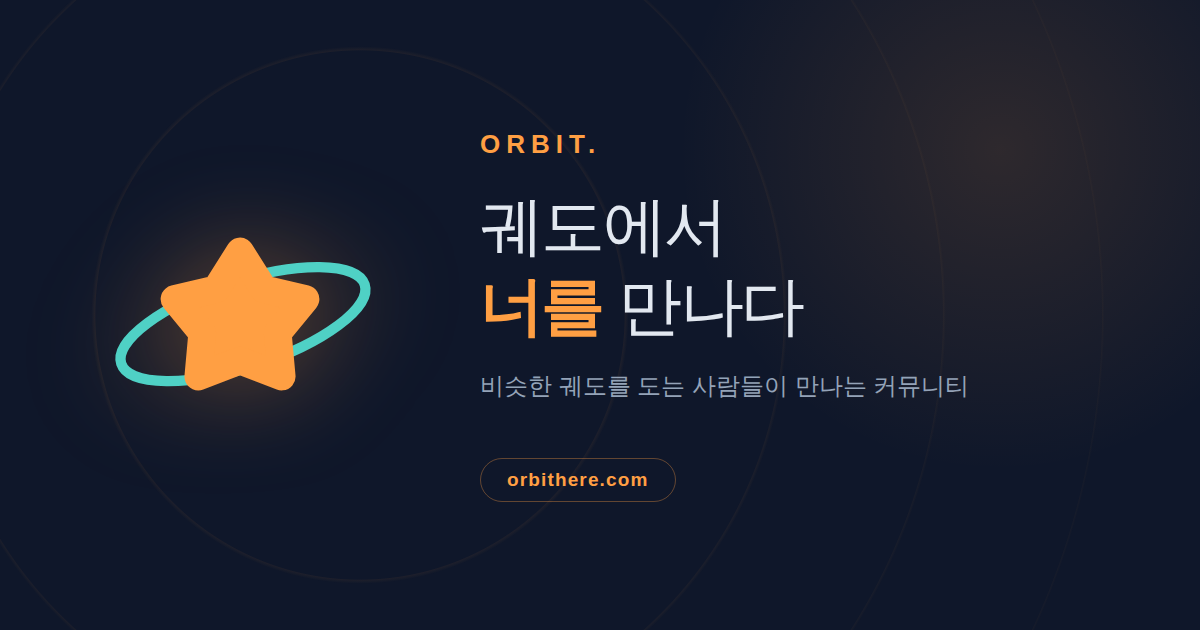
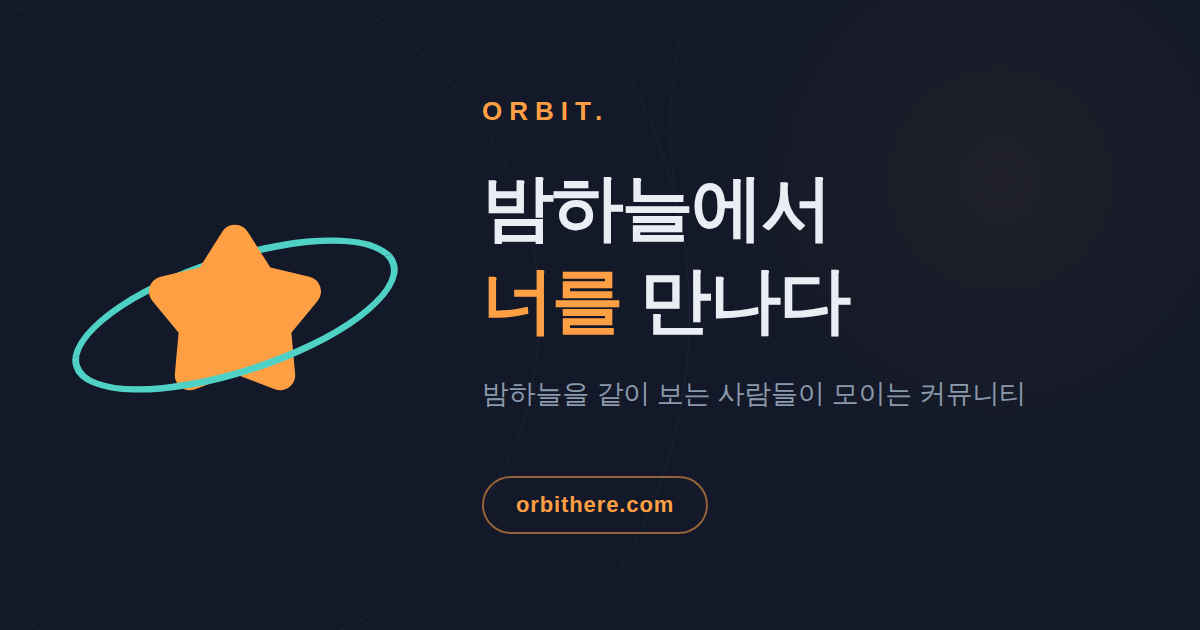
방향 전환 마무리: index 카피 A안, 후기 궤도 동선, live 폴링, 방문 위젯
- index.html: 제목·메타·h1을 밤하늘 관측 주제로 교체 (부록 A-1 적극안).
  브랜드 문구 '궤도에서 너를 만나다'는 subtitle로 내림
- images/og.png: 새 카피에 맞춰 재제작 (레이아웃은 기존과 동일)
- sky.html CTA → lounge.html#report 로 후기 궤도 직행
- lounge.html: 첫 진입 기본 채널을 관측 후기로 고정, 해시(#report 등)로
  채널 선택 진입 지원, 나머지 채널 탭은 시각적으로 한 톤 낮춤
- lounge.html: live 채널만 30초 폴링 — '실시간 하늘'이라는 이름을 지키게.
  숨긴 탭에서는 쉬고, 돌아오면 즉시 따라잡음
- visits.js + migration_009_visits.sql: 하루 단위 방문 집계와 위젯.
  main은 사이드바 아래칸, sky·lounge는 좌하단 부동 카드, 모바일에서는 접힘.
  마이그레이션 전이거나 요청 실패 시 위젯은 그려지지 않음

Claude-Session: https://claude.ai/code/session_01LAAsGhYdV9ifWGNjyvJjS3

diff --git a/lounge.html b/lounge.html
@@ -54,6 +54,10 @@
         .orbit-tab:hover { border-color: rgba(255,159,67,0.45); color: var(--accent); }
         .orbit-tab.on { background: var(--accent); border-color: var(--accent); color: #0F172A; font-weight: 700; }
         .orbit-tab .ic { margin-right: 1px; }
+        /* 유성우 기간에는 후기 궤도가 주인공 — 나머지 채널은 남기되 한 톤 낮춘다.
+           빈 채널 네 개가 똑같이 크게 보이면 "빈 방 4개"로 읽힌다. */
+        .orbit-tab.minor { opacity: 0.6; }
+        .orbit-tab.minor:hover, .orbit-tab.minor.on { opacity: 1; }
 
         /* 채널 헤더 — 선택한 궤도의 장소감 */
         .channel-header {
@@ -397,6 +401,7 @@
     </style>
     <script>if(new URLSearchParams(location.search).get('embed'))document.documentElement.classList.add('embed');</script>
     <script src="effects.js" defer></script>
+    <script src="visits.js" defer></script>
 </head>
 <body>
     <div class="bg-glow"></div>
@@ -459,9 +464,9 @@
     // (supabase/migration_008_sky_orbits.sql 참고) 안 그러면 글 작성이 23514로 막힌다.
     var ORBIT_LIST = [
         { id:'report', icon:'📝', label:'관측 후기',   desc:'어젯밤 뭘 보셨나요 — 관측 기록과 후기를 남기는 궤도예요.' },
-        { id:'gear',   icon:'🔭', label:'장비',        desc:'망원경·쌍안경·적도의·카메라 — 장비 이야기를 나누는 궤도예요.' },
-        { id:'live',   icon:'🌌', label:'실시간 하늘', desc:'지금 하늘이 어떤가요 — 구름·시상·오로라 속보를 바로 올리는 궤도예요.' },
-        { id:'ask',    icon:'❓', label:'질문',        desc:'뭐부터 봐야 할지, 저건 뭔지 — 무엇이든 물어보는 궤도예요.' }
+        { id:'gear',   icon:'🔭', label:'장비',        desc:'망원경·쌍안경·적도의·카메라 — 장비 이야기를 나누는 궤도예요.', minor:true },
+        { id:'live',   icon:'🌌', label:'실시간 하늘', desc:'지금 하늘이 어떤가요 — 구름·시상·오로라 속보를 바로 올리는 궤도예요.', minor:true },
+        { id:'ask',    icon:'❓', label:'질문',        desc:'뭐부터 봐야 할지, 저건 뭔지 — 무엇이든 물어보는 궤도예요.', minor:true }
     ];
     var ALL_ORBIT = { id:'all', icon:'🌠', label:'전체', desc:'모든 궤도의 궤적이 한데 흐르는 곳이에요.' };
     // 호환용 파생 맵 / 조회 헬퍼
@@ -477,7 +482,16 @@
     function avatarOf(nick){ return EMOJIS[nick.charCodeAt(0) % EMOJIS.length]; }
 
     var nickname = localStorage.getItem('orbit_nickname');
-    var currentOrbit = 'all';
+    // 첫 진입 기본 채널은 후기 궤도 — 관측 → 후기가 이 사이트의 핵심 동선이고,
+    // 글이 없는 시기에는 한 채널에 모여 있어야 살아 있는 곳으로 보인다.
+    // sky.html의 CTA는 #report 해시를 달고 들어온다. (#all로 전체 보기도 가능)
+    function orbitFromHash(){
+        var h = (location.hash || '').slice(1);
+        if(h === 'all') return 'all';
+        for(var i = 0; i < ORBIT_LIST.length; i++){ if(ORBIT_LIST[i].id === h) return h; }
+        return null;
+    }
+    var currentOrbit = orbitFromHash() || 'report';
     var EMBED = document.documentElement.classList.contains('embed');
 
     // 관리자 모드. 로그인만으로는 켜지지 않고 admins 테이블에 등록된 계정이어야 한다.
@@ -1056,7 +1070,7 @@
         var html = '<button class="orbit-tab' + (currentOrbit==='all'?' on':'') +
                    '" data-orbit="all"><span class="ic">' + ALL_ORBIT.icon + '</span> 전체</button>';
         ORBIT_LIST.forEach(function(o){
-            html += '<button class="orbit-tab' + (currentOrbit===o.id?' on':'') +
+            html += '<button class="orbit-tab' + (currentOrbit===o.id?' on':'') + (o.minor?' minor':'') +
                     '" data-orbit="' + o.id + '"><span class="ic">' + o.icon + '</span> ' + escapeHtml(o.label) + '</button>';
         });
         document.getElementById('orbitTabs').innerHTML = html;
@@ -1092,16 +1106,48 @@
         });
     });
 
-    document.getElementById('orbitTabs').addEventListener('click', function(e){
-        var tab = e.target.closest('.orbit-tab');
-        if(!tab) return;
-        document.querySelectorAll('.orbit-tab').forEach(function(t){ t.classList.remove('on'); });
-        tab.classList.add('on');
-        currentOrbit = tab.getAttribute('data-orbit');
+    function selectOrbit(id){
+        currentOrbit = id;
+        document.querySelectorAll('.orbit-tab').forEach(function(t){
+            t.classList.toggle('on', t.getAttribute('data-orbit') === id);
+        });
         renderChannelHeader();
         var sel = document.getElementById('orbitSelect');
         if(sel && currentOrbit !== 'all') sel.value = currentOrbit; // 보던 방으로 글쓰기 기본값 맞춤
+        syncLivePoll();
         loadPosts();
+    }
+
+    document.getElementById('orbitTabs').addEventListener('click', function(e){
+        var tab = e.target.closest('.orbit-tab');
+        if(!tab) return;
+        selectOrbit(tab.getAttribute('data-orbit'));
+    });
+
+    // 이미 열린 광장에서 #report 같은 해시 링크를 눌러도 채널이 따라가게
+    window.addEventListener('hashchange', function(){
+        var o = orbitFromHash();
+        if(o && o !== currentOrbit) selectOrbit(o);
+    });
+
+    // ===== live 채널 30초 폴링 =====
+    // 이름이 "실시간 하늘"이니 이 채널만은 새로고침 없이 새 궤적이 나타나야 한다.
+    // 다른 채널까지 폴링하면 요청만 늘어서, 기대를 만들어 둔 채널만 지킨다.
+    var livePoll = null;
+    function syncLivePoll(){
+        var want = currentOrbit === 'live';
+        if(want && !livePoll){
+            livePoll = setInterval(function(){
+                if(!document.hidden) loadPosts({ quiet: true });   // 안 보는 탭에서는 쉰다
+            }, 30000);
+        } else if(!want && livePoll){
+            clearInterval(livePoll);
+            livePoll = null;
+        }
+    }
+    // 탭을 벗어났다 돌아오면 다음 폴링까지 기다리지 않고 바로 따라잡는다
+    document.addEventListener('visibilitychange', function(){
+        if(!document.hidden && currentOrbit === 'live') loadPosts({ quiet: true });
     });
 
     // ===== 관리자 확인 =====
@@ -1134,6 +1180,7 @@
     checkAdmin().then(function(ok){
         isAdmin = ok;
         if(ok) showAdminBadge();
+        syncLivePoll();   // 해시로 live에 바로 들어온 경우
         loadPosts();
     });
     </script>

diff --git a/visits.js b/visits.js
@@ -1,0 +1,62 @@
+// ============================================================
+// 방문 집계 + 위젯
+// ------------------------------------------------------------
+// Supabase RPC(record_visit) 한 번으로 오늘/누적 방문 수를 받아온다.
+// supabase-js 없이 REST를 직접 부르므로 이 파일 하나로 어느 페이지에서도 돈다.
+// 서버 쪽 준비물: supabase/migration_009_visits.sql
+//
+// - 같은 기기는 하루 한 번만 +1 (localStorage 날짜 도장 — 새로고침으로 안 부푼다)
+// - 임베드(iframe) 화면은 부모 페이지가 이미 세므로 아무것도 하지 않는다
+// - <script src="visits.js" data-count-only> 로 넣으면 세기만 하고 위젯은 안 그린다
+//   (index.html — 대문은 아무 곳이나 누르면 입장이라 위젯이 클릭을 가로챈다)
+// - 마이그레이션 전이거나 요청이 실패하면 위젯을 그리지 않는다.
+//   깨진 위젯보다 없는 위젯이 낫다.
+// ============================================================
+(function(){
+    if(document.documentElement.classList.contains('embed')) return;
+
+    var SB_URL = 'https://unwxpuvfqyjhgrcrmuhu.supabase.co';
+    var SB_KEY = 'sb_publishable_KnyriHKUHNWw0QyIAXBmOA_0KaHPcXI'; // 공개용 키 (publishable)
+    var countOnly = document.currentScript && document.currentScript.hasAttribute('data-count-only');
+
+    // sv-SE 로케일은 YYYY-MM-DD 형식이라 날짜 도장으로 쓰기 좋다 (기기 시간대 기준)
+    var KEY = 'orbit_visit_day';
+    var today = new Date().toLocaleDateString('sv-SE');
+    var counted = localStorage.getItem(KEY) === today;
+
+    fetch(SB_URL + '/rest/v1/rpc/record_visit', {
+        method: 'POST',
+        headers: {
+            'apikey': SB_KEY,
+            'Authorization': 'Bearer ' + SB_KEY,
+            'Content-Type': 'application/json'
+        },
+        body: JSON.stringify({ p_count: !counted })
+    }).then(function(r){
+        if(!r.ok) throw new Error('record_visit ' + r.status);
+        return r.json();
+    }).then(function(data){
+        var row = Array.isArray(data) ? data[0] : data;
+        if(!row) return;
+        if(!counted) localStorage.setItem(KEY, today);
+        if(!countOnly) render(Number(row.today) || 0, Number(row.total) || 0);
+    }).catch(function(){ /* 위젯은 장식이다 — 실패해도 페이지는 멀쩡해야 한다 */ });
+
+    function render(todayN, totalN){
+        var el = document.createElement('aside');
+        el.className = 'visit-widget';
+        el.setAttribute('aria-label', '방문 집계');
+        el.innerHTML =
+            '<span class="vw-dot" aria-hidden="true"></span>' +
+            '<div class="vw-body">' +
+            '<div class="vw-cap">오늘 이 궤도를 지난 사람</div>' +
+            '<div class="vw-num">' + todayN.toLocaleString('ko-KR') +
+            '<span class="vw-total">누적 ' + totalN.toLocaleString('ko-KR') + '</span></div>' +
+            '</div>';
+        // main.html처럼 사이드바가 있으면 그 아래칸에 넣고("좌측 한켠"),
+        // 없으면 화면 왼쪽 아래에 떠 있는 작은 카드로 둔다.
+        var side = document.querySelector('.sidebar');
+        if(side){ el.classList.add('in-sidebar'); side.appendChild(el); }
+        else { el.classList.add('floating'); document.body.appendChild(el); }
+    }
+})();

diff --git a/index.html b/index.html
@@ -3,8 +3,8 @@
 <head>
     <meta charset="UTF-8">
     <meta name="viewport" content="width=device-width, initial-scale=1.0">
-    <title>Orbit — 궤도에서 너를 만나다</title>
-    <meta name="description" content="비슷한 궤도를 도는 사람들이 만나는 커뮤니티, 오빗(Orbit).">
+    <title>Orbit — 밤하늘을 같이 보는 사람들 | 유성우 · 관측 커뮤니티</title>
+    <meta name="description" content="다음 유성우는 언제인지, 그날 달빛은 어떨지. 밤하늘 달력과 관측 후기를 나누는 한국어 커뮤니티, 오빗(Orbit).">
     <meta name="theme-color" content="#0F172A">
     <link rel="canonical" href="https://orbithere.com/">
     <link rel="icon" href="/favicon.ico" sizes="any">
@@ -15,8 +15,8 @@
     <link rel="manifest" href="/site.webmanifest">
     <meta property="og:type" content="website">
     <meta property="og:site_name" content="Orbit">
-    <meta property="og:title" content="Orbit — 궤도에서 너를 만나다">
-    <meta property="og:description" content="비슷한 궤도를 도는 사람들이 만나는 커뮤니티, 오빗(Orbit).">
+    <meta property="og:title" content="Orbit — 밤하늘을 같이 보는 사람들">
+    <meta property="og:description" content="다음 천문 현상까지 남은 시간과 관측 조건, 그리고 같은 하늘을 본 사람들의 후기.">
     <meta property="og:image" content="https://orbithere.com/images/og.png">
     <meta property="og:image:width" content="1200">
     <meta property="og:image:height" content="630">
@@ -271,6 +271,8 @@
 
     </style>
     <script src="effects.js" defer></script>
+    <!-- 대문은 아무 곳이나 누르면 입장이라 위젯 없이 방문 수만 센다 -->
+    <script src="visits.js" defer data-count-only></script>
 </head>
 <body>
     <div class="starfield">
@@ -290,8 +292,8 @@
                 <div class="orbit-ring ring-front"></div>
             </div>
         </div>
-        <h1 class="title">궤도에서 <span class="highlight">너를</span> 만나다</h1>
-        <p class="subtitle">비슷한 궤도를 도는 사람들이 모이는 곳</p>
+        <h1 class="title">밤하늘에서 <span class="highlight">너를</span> 만나다</h1>
+        <p class="subtitle">궤도에서 너를 만나다 · 같은 하늘을 보는 사람들이 모이는 곳</p>
         <a class="click-hint" href="main.html">아무곳이나 클릭</a>
     </div>
 

diff --git a/orbit.css b/orbit.css
@@ -141,6 +141,48 @@ body {
 }
 
 /* ============================================================
+   방문 위젯 (visits.js가 만들어 붙인다)
+   ------------------------------------------------------------
+   main.html에서는 사이드바 아래칸(.in-sidebar),
+   sky·lounge 단독 페이지에서는 화면 왼쪽 아래(.floating)에 앉는다.
+   숫자는 본문 잉크 색으로 — 색은 살아있음을 표시하는 점 하나면 충분하다.
+   ============================================================ */
+.visit-widget {
+    display: flex; align-items: center; gap: 11px;
+    background: var(--card-bg);
+    border: 1px solid rgba(255,159,67,0.15);
+    border-radius: 14px; padding: 10px 15px 11px;
+    animation: vw-in 0.45s ease 0.15s both;
+}
+@keyframes vw-in { from { opacity: 0; transform: translateY(6px); } }
+.visit-widget.floating {
+    position: fixed; left: 18px; bottom: 18px; z-index: 30;
+    background: rgba(21,30,54,0.9); backdrop-filter: blur(10px);
+    box-shadow: 0 10px 28px rgba(0,0,0,0.35);
+}
+.visit-widget.in-sidebar { margin-top: auto; }
+.vw-dot {
+    width: 7px; height: 7px; border-radius: 50%; flex-shrink: 0;
+    background: var(--accent);
+    animation: vw-pulse 2.4s ease-out infinite;
+}
+@keyframes vw-pulse {
+    0%   { box-shadow: 0 0 0 0 rgba(255,159,67,0.45); }
+    70%  { box-shadow: 0 0 0 7px rgba(255,159,67,0); }
+    100% { box-shadow: 0 0 0 0 rgba(255,159,67,0); }
+}
+.vw-cap { font-size: 10px; color: #64748B; letter-spacing: 0.02em; }
+.vw-num {
+    font-size: 15px; font-weight: 700; color: var(--text-main);
+    font-variant-numeric: tabular-nums; line-height: 1.35;
+    display: flex; align-items: baseline; gap: 8px;
+}
+.vw-total { font-size: 10.5px; font-weight: 500; color: #64748B; }
+/* 좁은 화면에서는 위젯이 본문·CTA를 가린다.
+   사이드바도 860px부터 가로 상단바로 접히므로 그 안의 위젯도 같이 접는다. */
+@media (max-width: 860px) { .visit-widget { display: none; } }
+
+/* ============================================================
    모션 감속 (prefers-reduced-motion)
    ------------------------------------------------------------
    이 사이트는 유성우·파티클·반짝임이 계속 움직인다.

diff --git a/sky.html b/sky.html
@@ -227,6 +227,7 @@
     </style>
     <script>if(new URLSearchParams(location.search).get('embed'))document.documentElement.classList.add('embed');</script>
     <script src="effects.js" defer></script>
+    <script src="visits.js" defer></script>
 </head>
 <body>
     <div class="bg-glow"></div>
@@ -325,7 +326,7 @@
                 정확한 공식 정보는 <a href="https://astro.kasi.re.kr/" target="_blank" rel="noopener">한국천문연구원 천문우주지식정보</a>를 확인해 주세요.
             </div>
 
-            <a class="cta-lounge" href="lounge.html">
+            <a class="cta-lounge" href="lounge.html#report">
                 <div class="ct">별 보러 갔다 왔다면 →</div>
                 <div class="cd">그날 밤 하늘이 어땠는지, 몇 개나 봤는지 관측 후기 궤도에 남겨주세요. 같은 하늘을 본 사람들이 모여 있습니다.</div>
             </a>

diff --git a/main.html b/main.html
@@ -293,6 +293,7 @@
         ::selection { background-color: #4FD1C5; color: #0F172A; }
     </style>
     <script src="effects.js" defer></script>
+    <script src="visits.js" defer></script>
 </head>
 <body>
     <div class="bg-glow"></div>
